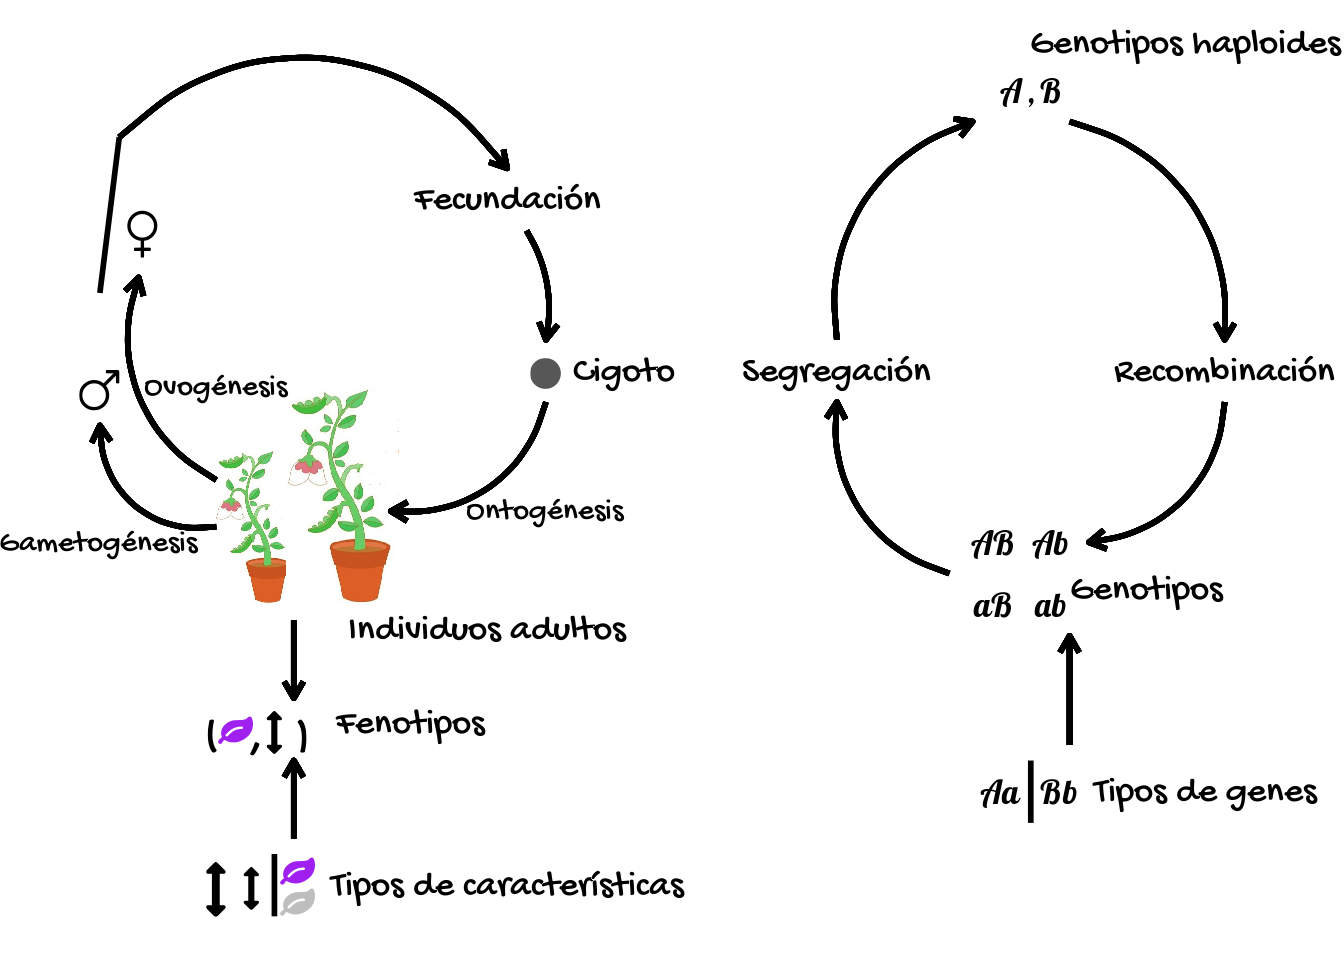
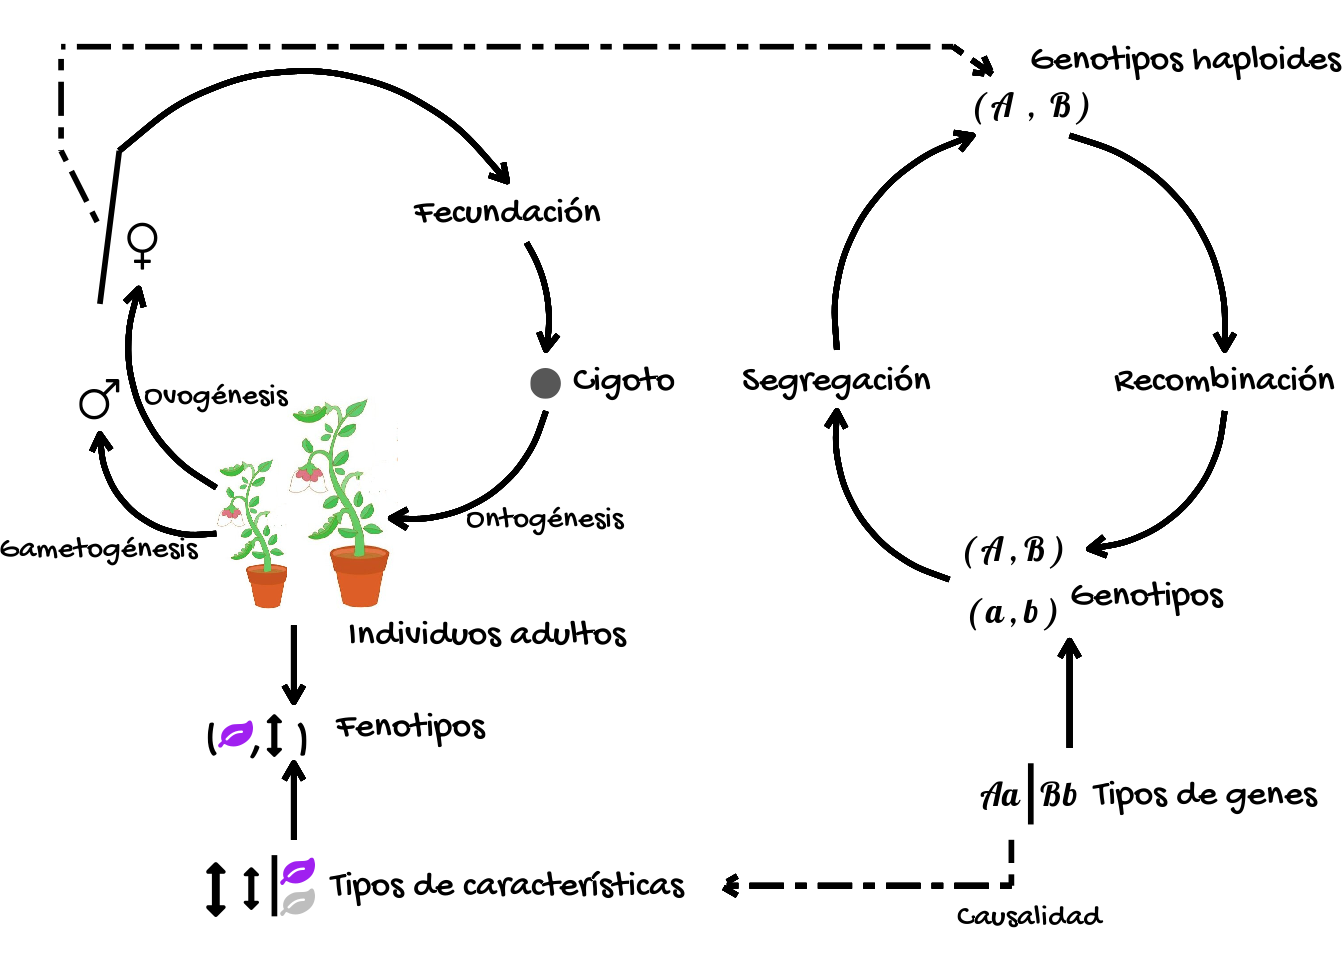
Se termino de explicar el grafo modelo.

diff --git a/01_genética_Mendeliana.html b/01_genética_Mendeliana.html
@@ -517,7 +517,6 @@ El <font color="black"><u>fenotipo</font></u> es la manifestación o aparición 
 <div class="row">
 <div class="col-md-6">
 <p>El circulo superior a la izquierda simboliza el <font color="black"><u>ciclo de vida</font></u> de un organismo (aquí, los guisantes) de acuerdo con la teoría unigamética de la fecundación. Los individuos adultos, producen gametos femeninos (<font color="black"><u>ovogénesis</font></u>) y gametos masculinos (<font color="black"><u>gametogénesis</font></u>). Luego mediante la <font color="black"><u>fecundación</font></u>, ocurre la unión de los gametos (proceso conocido como <font color="black"><u>singamia</font></u>), dando lugar al cigoto. La <font color="black"><u>ontogénesis</font></u> representa el desarrollo de un cigoto en un individuo adulto. Luego a cada individuo adulto se asocia un <font color="black"><u>fenotipo</font></u>, en términos de las características heredables que presenta. En la parte inferior se presenta las características mendelianas.</p>
-<p>El lado derecho de la figura,</p>
 </div>
 <div class="col-md-6">
 <!-- El potencial heurístico de las visualizaciones y diagramas en los procesos de generación y adecuación de modelos es una herramienta concominante al desarrollo y transmisión del conocimiento, pues las expresiones visuales, son anteriores al lenguaje y al texto, poseen analogías con ellos, y se encuentran vinculadas a las interconexiones espacio-abstracción-acción.
@@ -526,6 +525,10 @@ Por otro lado, la biología moderna es impensable sin el uso de los diagramas, e
 <p><img src="01_gen%C3%A9tica_Mendeliana_files/figure-html/Grafo%20conceptual%20de%20la%20gen%C3%A9tica%20mendeliana%202-1.png" width="100%" style="display: block; margin: auto;" /></p>
 </div>
 </div>
+<p>El lado derecho de la figura, postula los factores causales de las características (<font color="black"><u>genes alelos</font></u>). <!-- Frecuentemente, los diferentes tipos de genes poseen más de dos formas alélicas, el término "alelo" deriva de la expresión "gen alelomorfo" (que puede parecer con diferentes formas). Cada gen alelo es una de las variantes de un tipo de gen, un gen es alelo sólo respecto a otro u otros de su mismo tipo. --> Análogamente a las características, los genes se agrupan según sus diferentes tipos. A continuación, se toma un gen de cada tipo, y se repite esta operación, así, un <font color="black"><u>genotipo diploide</font></u> consta de un par de mosaico de genes, cada mosaico tiene un gen de cada tipo. Si para un determinado tipo de gen, ambos mosaicos poseen el mismo alelo, se esta ante un genotipo diploide <font color="black"><u>homocigoto</font></u> para ese tipo de gen. Si por el contrario, los mosaicos tienen alelos distintos, se trata de un <font color="black"><u>heterocigoto</font></u>.</p>
+<p>La <font color="black"><u>segregación</font></u> y la <font color="black"><u>recombinación</font></u> constituyen la parte central del cálculo de la genética mendeliana. La primera indica cómo obtener un conjunto de genotipos haploides a partir de un genotipo diploide. La regla es sencilla, un genotipo diploide genera tantos genotipos haploides como posibles sean las combinaciones que se pueden formar tomando un alelo de cada uno de los tipos de genes que lo conforman. La recombinación indica cómo obtener genotipos diploides a partir de dos genotipos haploides: basta la unión de ambos (en la fecundación, cada gameto aporta un genotipo haploide, y su unión (singamia) da lugar al genotipo diploide del cigoto).</p>
+<p>Durante la formación de los gametos, los alelos se separan (se segregan), por tanto los gametos (ya sean femeninos o masculinos) portan genotipos haploides. En la fecundación, la unión de los gametos produce nuevamente genotipos diploides cuyos alelos se mantienen juntos hasta la formación de los nuevos gametos en el adulto. Así los cigotos portan genotipos diploides.</p>
+<HR>
 <p><br></p>
 <H4 align="center">
 Copyright © 2019, página web hecha con Rmarkdown.
